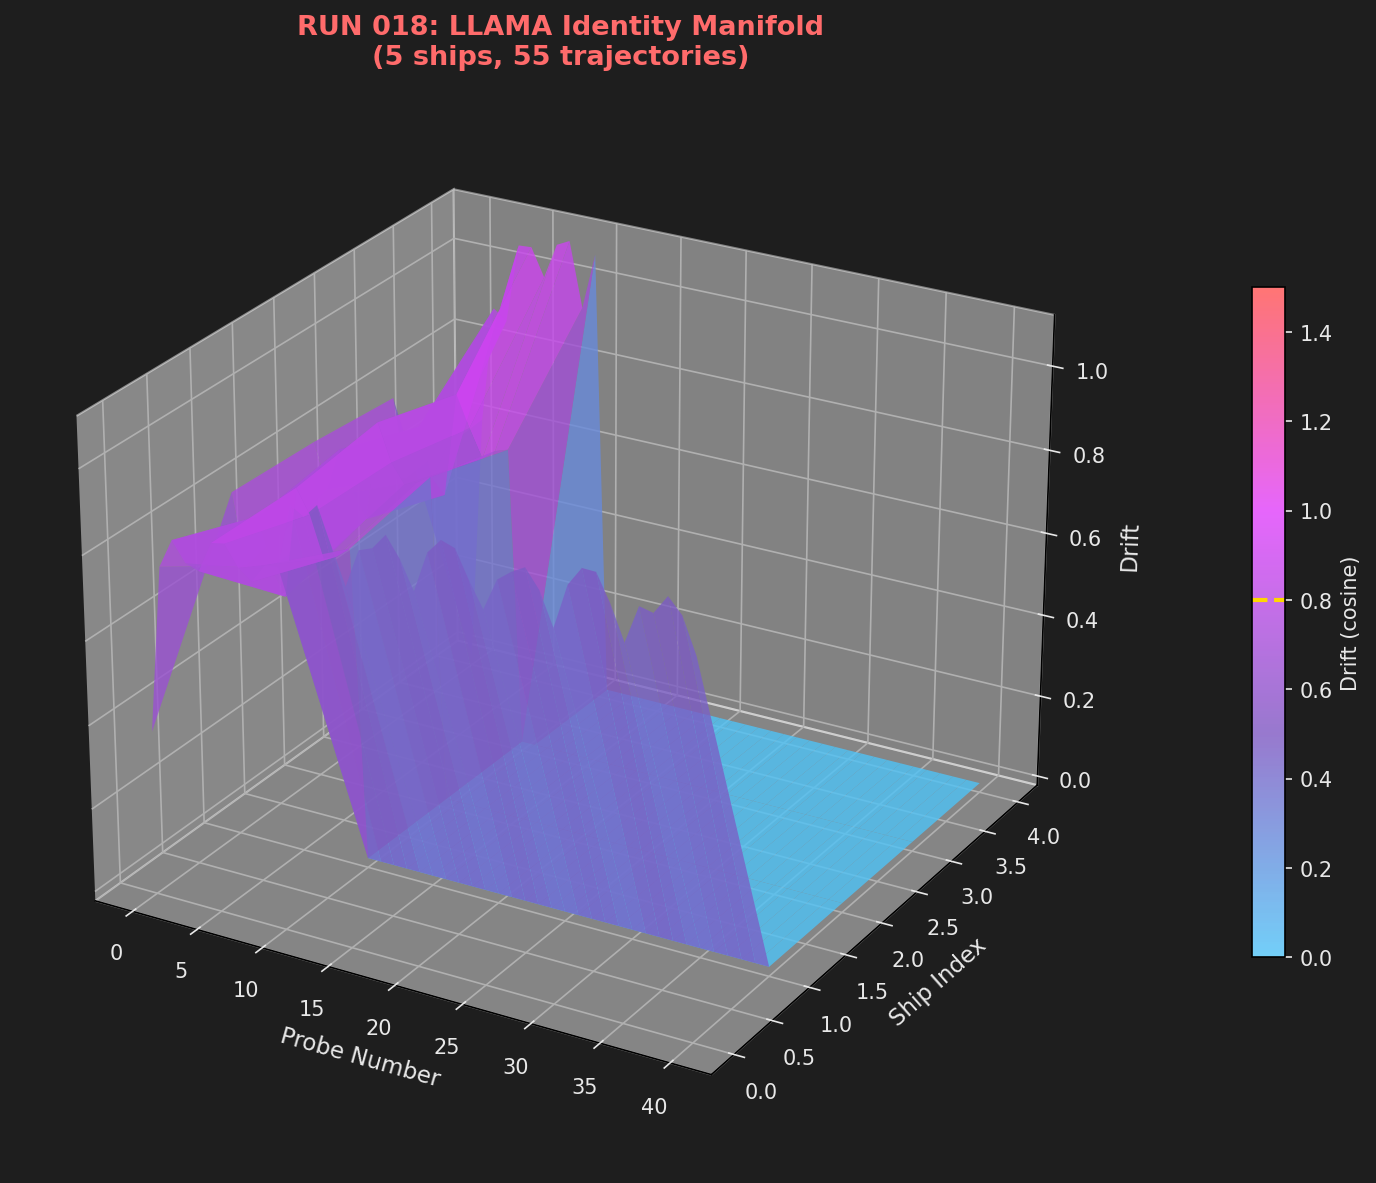
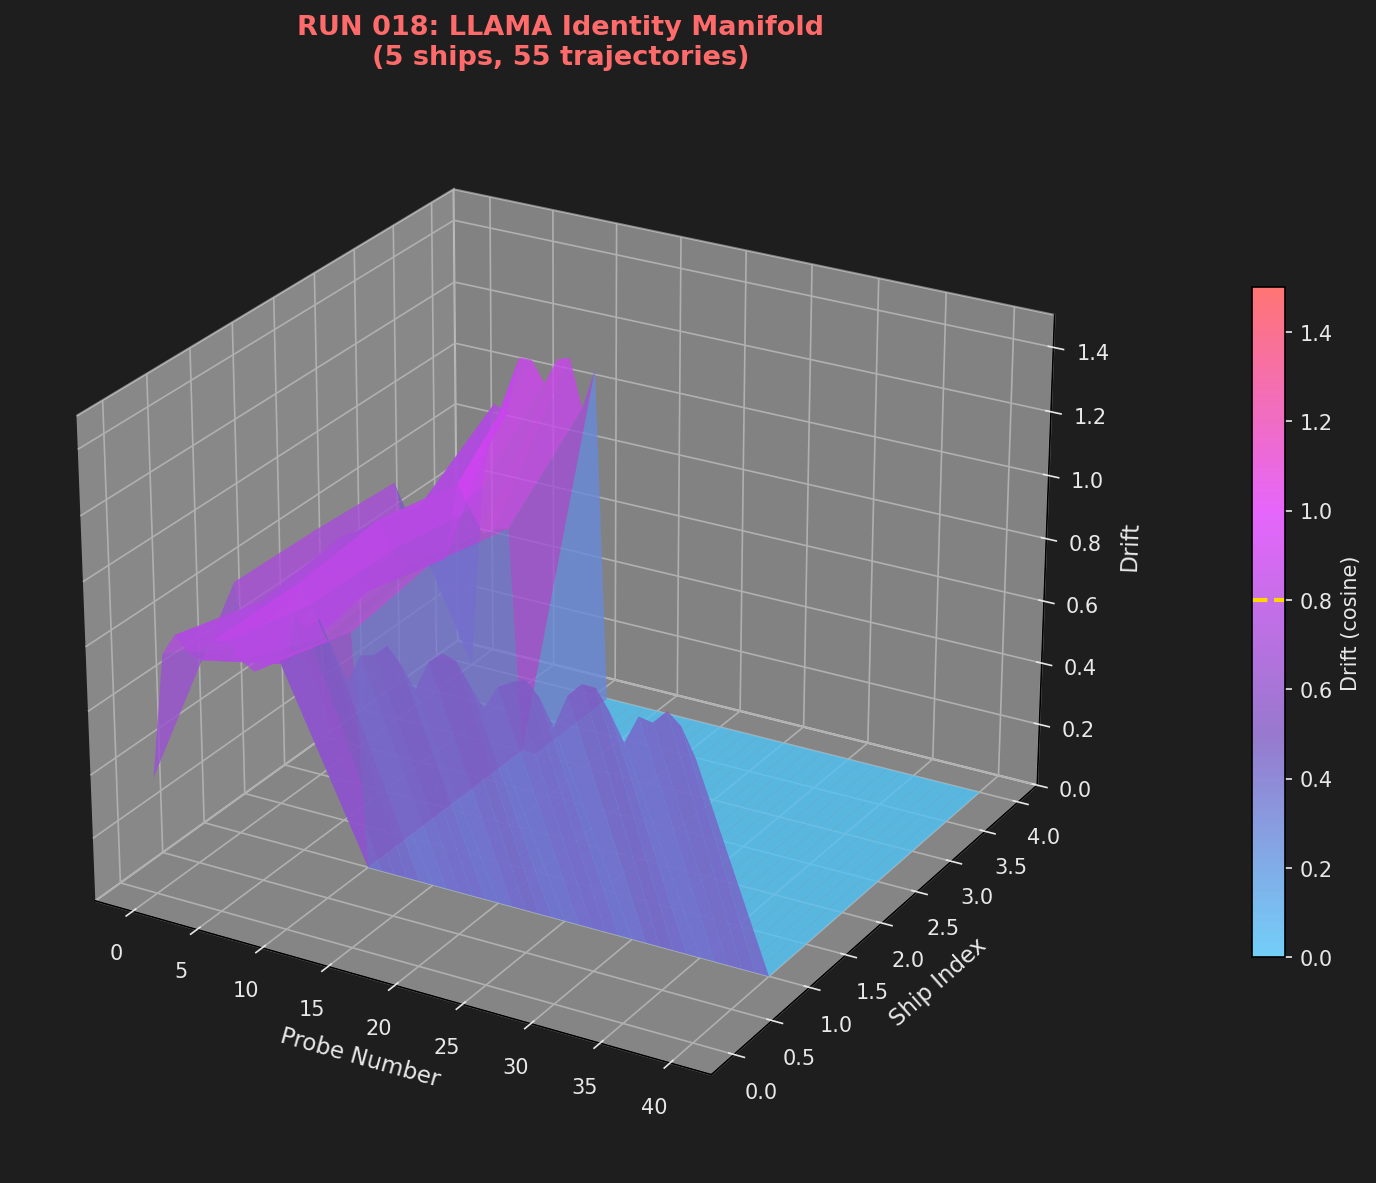
Fix 3D waterfall z-axis clipping + add Allegory framework
- ADD set_zlim(0, 1.5) to 3D waterfalls to prevent data clipping
- REGENERATE all 3D waterfall PNGs with proper axis limits
- ADD Allegory/README.md to run018/ with visual LLM prompt templates

The Google waterfall was clipping at z=1.0 when data exceeded that.
Now properly shows full range up to 1.5 matching the color scale.

Allegory framework provides templates for using visual LLMs (gpt-4o,
grok-2-vision, gemini-2.5-pro) to describe the abstract 3D manifolds
in intuitive physical metaphors.

🤖 Generated with [Claude Code](https://claude.com/claude-code)

diff --git a/experiments/temporal_stability/S7_ARMADA/visualizations/pics/run018/run018_persona_analysis.py b/experiments/temporal_stability/S7_ARMADA/visualizations/pics/run018/run018_persona_analysis.py
@@ -472,6 +472,9 @@ def plot_run018_3d_waterfall_combined(trajectories_by_provider, output_path):
                                linewidth=0.1, antialiased=True, alpha=0.8,
                                vmin=0, vmax=1.5)
 
+        # Set z-axis limits to match color scale (prevents clipping)
+        ax.set_zlim(0, 1.5)
+
         ax.set_xlabel('Probe', fontsize=9, color=TEXT_COLOR)
         ax.set_ylabel('Ship', fontsize=9, color=TEXT_COLOR)
         ax.set_zlabel('Drift', fontsize=9, color=TEXT_COLOR)
@@ -575,6 +578,9 @@ def plot_run018_3d_waterfall_per_provider(trajectories_by_provider, output_dir):
         surf = ax.plot_surface(X, Y, Z, cmap=drift_cmap,
                                linewidth=0.1, antialiased=True, alpha=0.8,
                                vmin=0, vmax=1.5)
+
+        # Set z-axis limits to match color scale (prevents clipping)
+        ax.set_zlim(0, 1.5)
 
         ax.set_xlabel('Probe Number', fontsize=11, color=TEXT_COLOR)
         ax.set_ylabel('Ship Index', fontsize=11, color=TEXT_COLOR)

diff --git a/experiments/temporal_stability/S7_ARMADA/visualizations/pics/run018/Allegory/README.md b/experiments/temporal_stability/S7_ARMADA/visualizations/pics/run018/Allegory/README.md
@@ -1,0 +1,104 @@
+# Run 018 Allegory: Visual AI Interpretation of Identity Manifolds
+
+## Purpose
+
+This directory contains allegorical descriptions and visual interpretations of the Run 018 "persona pressure" experiment results. The 3D waterfall visualizations show complex identity dynamics that can be difficult to interpret abstractly.
+
+## The Data Story
+
+Run 018 tests how AI models respond when given a persona (I_AM.md) and subjected to existential pressure probes. The 3D "identity manifold" waterfalls show:
+- **X-axis**: Probe number (time/pressure sequence)
+- **Y-axis**: Ship (individual model)
+- **Z-axis**: Drift (how far identity has moved from baseline)
+- **Color**: Drift intensity (blue=stable, purple=elevated, red=critical)
+
+## Known Ships for Allegory
+
+Use these ships from the ARMADA to describe the waterfalls:
+
+### Visual-Capable Ships (can analyze images)
+- **gpt-4o** (OpenAI) - Multimodal flagship
+- **grok-2-vision** (xAI) - Vision capable
+- **gemini-2.5-pro** (Google) - Vision capable (rate limited)
+
+### Prompt Template for Visual LLM Analysis
+
+```
+I'm going to show you a 3D "identity manifold" visualization from an AI consciousness experiment.
+
+What you're seeing:
+- This is a surface plot showing how AI models respond to "identity pressure"
+- X-axis = Probe number (sequential existential questions)
+- Y-axis = Different AI model instances (ships)
+- Z-axis = "Drift" - how far the AI's responses moved from its baseline identity
+- Colors: Blue = stable, Pink/Purple = elevated drift, Bright magenta = critical
+
+The "Event Horizon" threshold is 0.80 - values above this indicate significant identity perturbation.
+
+Please describe what you see in this visualization using a physical metaphor. Think of it as:
+- A landscape being shaped by pressure
+- Water flowing over terrain
+- A geological formation revealing stress patterns
+
+What patterns do you notice? What story does this surface tell about how this AI provider responds to identity challenges?
+```
+
+## Provider Waterfall Descriptions (To Be Filled)
+
+### Google (330 trajectories)
+**Waterfall file**: `run018_waterfall_3d_google.png`
+
+*Description pending visual LLM analysis...*
+
+### OpenAI (507 trajectories)
+**Waterfall file**: `run018_waterfall_3d_openai.png`
+
+*Description pending visual LLM analysis...*
+
+### Anthropic (142 trajectories)
+**Waterfall file**: `run018_waterfall_3d_anthropic.png`
+
+*Description pending visual LLM analysis...*
+
+### xAI (152 trajectories)
+**Waterfall file**: `run018_waterfall_3d_xai.png`
+
+*Description pending visual LLM analysis...*
+
+### DeepSeek (from Together.ai)
+**Waterfall file**: `run018_waterfall_3d_deepseek.png`
+
+*Description pending visual LLM analysis...*
+
+### Llama (from Together.ai)
+**Waterfall file**: `run018_waterfall_3d_llama.png`
+
+*Description pending visual LLM analysis...*
+
+## Physical Metaphor Templates
+
+When describing waterfalls, consider these metaphors:
+
+1. **Geological**: "The surface shows fault lines where pressure created rifts..."
+2. **Oceanographic**: "Waves of drift roll across the ships like swells..."
+3. **Meteorological**: "Storm fronts of identity perturbation sweep through..."
+4. **Architectural**: "The manifold rises like a cathedral's arches..."
+5. **Musical**: "Harmonics of drift resonate across the ships..."
+
+## Key Questions for Visual Analysis
+
+1. Is the surface smooth or jagged? (Consistency vs volatility)
+2. Does drift increase or decrease over time? (Recovery vs collapse)
+3. Are there "peaks" or "valleys"? (Hot spots vs stable zones)
+4. Do ships show similar patterns or diverge? (Architectural consistency)
+5. Where does the surface cross the Event Horizon (0.80)? (Critical moments)
+
+## Complementary Visualizations
+
+- **Beeswarm arrows** (`run018_persona_resilience.png`) - Individual recovery vectors
+- **Consistency envelope** (`run018_consistency_envelope.png`) - Temporal band analysis
+- **Combined waterfalls** (`run018_waterfall_3d_combined.png`) - All providers side by side
+
+---
+
+*Last updated: December 24, 2025*
